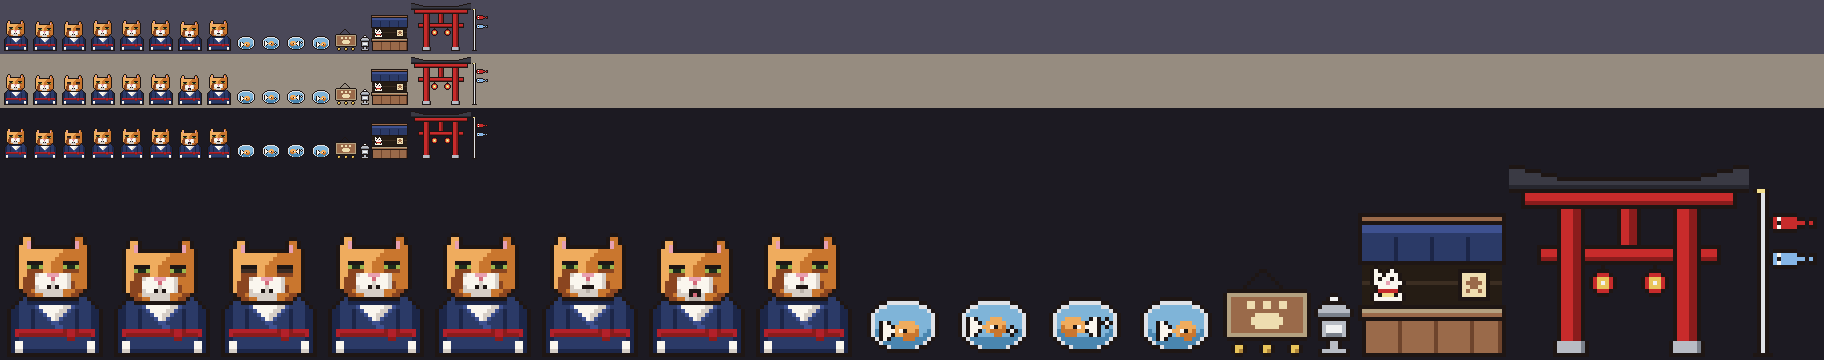
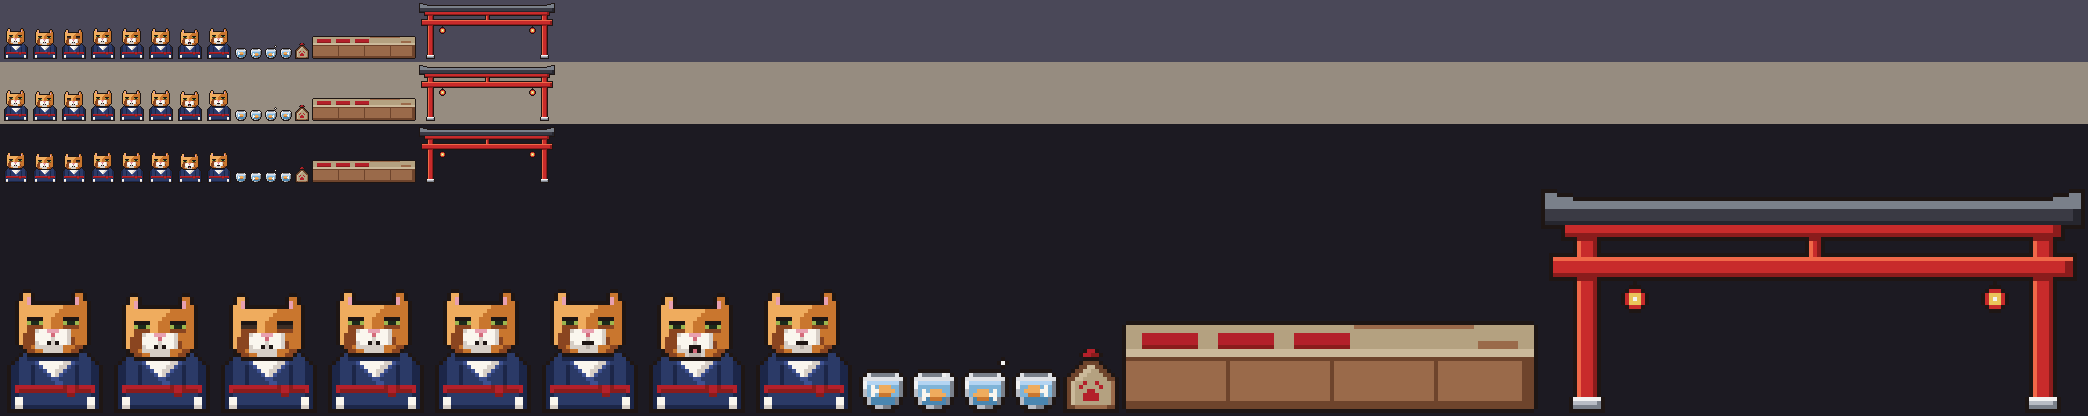
2.20.8: wire the shrine stall colliders in, bump version, regenerate the stall preview

Changed region(s): [[0.0, 0.4583, 1.0, 1.0], [0.0, 0.0, 0.2812, 0.4583]]

diff --git a/PlutoTheCat/src/ShrineStall.cs b/PlutoTheCat/src/ShrineStall.cs
@@ -34,6 +34,10 @@ namespace PlutoTheCat
         // items must sort in front of, and the bowl's depth is re-logged beside theirs.
         private static tk2dBaseSprite _counterSprite;
         private static tk2dBaseSprite _kinsukeSprite;
+        // The solid props from the current placement, kept so pluto_stall bodies can log their colliders.
+        private static GameObject _toriiProp;
+        private static GameObject _counterProp;
+        private static GameObject _kinsukeProp;
         private static readonly Dictionary<string, int> SpriteIdCache = new Dictionary<string, int>();
         private static System.Action _foyerHandler;
 
@@ -226,6 +230,7 @@ namespace PlutoTheCat
         ///   pluto_stall &lt;x&gt; &lt;y&gt;   - move it to explicit coordinates
         ///   pluto_stall save       - write the current position back to the config file
         ///   pluto_stall stock      - log what the live shop actually stocked, slot by slot
+        ///   pluto_stall bodies     - log the stall's colliders and the reach to Daifuku and the items
         /// </summary>
         private static void RegisterConsoleCommand()
         {
@@ -242,6 +247,14 @@ namespace PlutoTheCat
                     GameObject live = FindLiveShop();
                     if (live == null) Plugin.Log("shrine stall: stock - no live shop in the scene");
                     else LogStock(live, "on request");
+                    return;
+                }
+
+                if (args.Length == 1 && string.Equals(args[0], "bodies", StringComparison.OrdinalIgnoreCase))
+                {
+                    // Run it standing at the counter front after character select: reach is measured from
+                    // the player too, and the shop items only exist once DoSetup has run.
+                    ShrineStallCollision.LogBodies(FindLiveShop(), _counterProp, _toriiProp, _kinsukeProp);
                     return;
                 }
 
@@ -275,7 +288,7 @@ namespace PlutoTheCat
                 }
                 else
                 {
-                    Plugin.Log("shrine stall: usage - pluto_stall (report) | pluto_stall here | pluto_stall <x> <y> | pluto_stall save | pluto_stall stock");
+                    Plugin.Log("shrine stall: usage - pluto_stall (report) | pluto_stall here | pluto_stall <x> <y> | pluto_stall save | pluto_stall stock | pluto_stall bodies");
                     return;
                 }
 
@@ -482,20 +495,35 @@ namespace PlutoTheCat
         {
             DestroyProps();
             // Back to front, as in the approved mockup (the draw order itself comes from z, see Depth above).
-            PlaceProp(new[] { "torii.png" }, PlutoConfig.StallPosition + ToriiOffset, "pluto_shrine_stall_torii", ToriiHeightOffGround);
-            _counterSprite = SpriteOf(PlaceProp(new[] { "stall.png" }, PlutoConfig.StallPosition + StallOffset, "pluto_shrine_stall_stall", StallHeightOffGround));
-            _kinsukeSprite = SpriteOf(PlaceProp(
+            _toriiProp = PlaceProp(new[] { "torii.png" }, PlutoConfig.StallPosition + ToriiOffset, "pluto_shrine_stall_torii", ToriiHeightOffGround);
+            _counterProp = PlaceProp(new[] { "stall.png" }, PlutoConfig.StallPosition + StallOffset, "pluto_shrine_stall_stall", StallHeightOffGround);
+            _counterSprite = SpriteOf(_counterProp);
+            _kinsukeProp = PlaceProp(
                 new[] { "kinsuke_idle_001.png", "kinsuke_idle_002.png", "kinsuke_idle_003.png", "kinsuke_idle_004.png" },
-                PlutoConfig.StallPosition + KinsukeOffset, "pluto_shrine_stall_kinsuke", KinsukeHeightOffGround));
+                PlutoConfig.StallPosition + KinsukeOffset, "pluto_shrine_stall_kinsuke", KinsukeHeightOffGround);
+            _kinsukeSprite = SpriteOf(_kinsukeProp);
+
+            // P3 (redesign): the counter and the torii post bases are solid, and a player-only blocker closes
+            // the band behind the counter. The bowl sits on the counter top, inside the counter's body.
+            if (_toriiProp != null) ShrineStallCollision.AttachToriiBody(_toriiProp);
+            if (_counterProp != null)
+            {
+                ShrineStallCollision.AttachCounterBody(_counterProp);
+                ShrineStallCollision.AttachBackBlocker(_counterProp);
+            }
 
             // 2.20.4 diagnostic (tester's ask): logs the live shop's whole hierarchy on every placement, so
             // "the shopkeeper is missing" or an unexplained sprite is hard data on the next run instead of
             // another round of screenshots and guessing.
             ReconcileLiveShopPosition();
+            // Registered rigidbodies do not follow a raw transform move (archaeology 3.2), and every move
+            // (pluto_stall, reconcile, foyer placement) ends up here, so Daifuku's collider is refreshed once.
+            ShrineStallCollision.ReinitializeShopBodies(FindLiveShop());
             // After the clone is where the config says: a move or reconcile shifts its children in y
             // without touching their z, and the shop items (once DoSetup has stocked them) need their lift.
             RefreshLiveShopDepth(FindLiveShop(), "placement");
             LogShopDiagnostics();
+            ShrineStallCollision.LogBodies(FindLiveShop(), _counterProp, _toriiProp, _kinsukeProp);
             AttachStockProbe();
         }
 
@@ -507,6 +535,9 @@ namespace PlutoTheCat
             Props.Clear();
             _counterSprite = null;
             _kinsukeSprite = null;
+            _toriiProp = null;
+            _counterProp = null;
+            _kinsukeProp = null;
         }
 
         private static tk2dBaseSprite SpriteOf(GameObject prop)

diff --git a/tools/tests/test_shrine_stall_collision.py b/tools/tests/test_shrine_stall_collision.py
@@ -230,5 +230,36 @@ class ShrineStallCollisionSourceTests(unittest.TestCase):
             self.assertTrue(counter[0][0] <= x - 8 and x + 8 <= counter[0][1], 'item slot off the counter')
 
 
+class ShrineStallCollisionWiringTests(unittest.TestCase):
+    """The collision entry points do nothing unless ShrineStall.cs calls them on the placed props."""
+
+    def stall(self):
+        return (COLLISION.parent / 'ShrineStall.cs').read_text(encoding='utf-8')
+
+    def place_backdrop(self):
+        m = re.search(r'private static void PlaceBackdropProps\(\)(.*?)\n        \}\n', self.stall(), re.S)
+        self.assertIsNotNone(m, 'ShrineStall.cs missing PlaceBackdropProps()')
+        return m.group(1)
+
+    def test_bodies_attached_to_placed_props(self):
+        body = self.place_backdrop()
+        self.assertRegex(body, r'AttachToriiBody\(_toriiProp\)', 'the torii prop must get its post bodies')
+        self.assertRegex(body, r'AttachCounterBody\(_counterProp\)', 'the counter prop must get its body')
+        self.assertRegex(body, r'AttachBackBlocker\(_counterProp\)', 'the band behind the counter must be closed')
+        self.assertLess(body.index('_counterProp = PlaceProp'), body.index('AttachCounterBody'),
+                        'bodies must be attached after the counter is placed')
+
+    def test_bodies_reinitialized_after_every_move(self):
+        body = self.place_backdrop()
+        self.assertIn('ShrineStallCollision.ReinitializeShopBodies(FindLiveShop())', body)
+        self.assertLess(body.index('ReconcileLiveShopPosition();'), body.index('ReinitializeShopBodies'),
+                        'Reinitialize must run after the live shop has been moved into place')
+
+    def test_bodies_logged_and_command(self):
+        stall = self.stall()
+        self.assertIn('ShrineStallCollision.LogBodies(FindLiveShop(), _counterProp, _toriiProp, _kinsukeProp)', self.place_backdrop())
+        self.assertRegex(stall, r'string\.Equals\(args\[0\], "bodies"', 'pluto_stall bodies must exist')
+
+
 if __name__ == '__main__':
     unittest.main()

diff --git a/PlutoTheCat/src/Plugin.cs b/PlutoTheCat/src/Plugin.cs
@@ -17,7 +17,7 @@ namespace PlutoTheCat
     {
         public const string GUID = "bogdan.etg.plutothecat";
         public const string NAME = "Pluto The Cat";
-        public const string VERSION = "2.20.7";
+        public const string VERSION = "2.20.8";
 
         // Embedded-resource roots (RootNamespace + folder path, '/' separated).
         public const string SPRITE_ROOT = "PlutoTheCat/Resources/SpriteRoot";

diff --git a/thunderstore/CHANGELOG.md b/thunderstore/CHANGELOG.md
@@ -1,5 +1,13 @@
 # Changelog
 
+## 2.20.8 (test build, not released)
+The Shrine Stall redesign, drawn to the mockups the user approved on 2026-09-18.
+- **Nothing to buy (P1):** the three items now sit on the counter top. Two of them used to hang past its right end, and the first sat over Daifuku. The game normally forces shop items to draw behind the counter; after stocking, their depth is reset so they draw in front of it. The item spots sit 2 px higher, so the crimson mats show under the plaques.
+- **Flat, overlapping stall (P2):** new art in the game's 3/4 view. There is a wider counter (6.5 tiles) with a visible top face, and a taller torii whose two posts both stand clear of the counter. Daifuku stands behind the counter with his paws on it. Kinsuke's bowl is smaller and sits 1.3 tiles from him instead of covering him. Locked items show as an ema plaque instead of a blueprint. The Japanese decorations (noren, maneki-neko, stone lantern, koi banners) are dropped.
+- **No collision (P3):** the counter's footprint and the torii post bases are solid. A player-only wall stops you walking round a post into the space behind the counter. The bowl sits inside the counter's footprint. Every move refreshes the colliders.
+- **The stall's default position is 61.063, 18.25, the spot the user chose in game.** The two old defaults (19.7, 22.1 and 10.5, 22.1) move to it automatically. A position you chose yourself is never changed.
+- `pluto_stall bodies` logs every collider and the reach from the counter front, and from the player, to Daifuku's talk point and each item. `pluto_here` now works as another name for `pluto_where`. The stock report now says outright that empty slots are expected before character select.
+
 ## 2.20.7 (test build, not released)
 - **The Shrine Stall stocks its items again.** Its loot table was created bare, which leaves the table's list of included sub-tables null. When a live shop set itself up in the Breach, compiling that table threw a NullReferenceException and no items were ever stocked. This stayed hidden until 2.20.6 because until then no live shop existed. The table is now created with Alexandria's `LootUtility.CreateLootTable()`, which initialises both lists. (Confirmed from 11 Steam-machine logs: the exception appeared in every run with a live shop and in no other run.)
 - `pluto_stall stock` logs the loot table and what each item slot holds. A probe also logs the stock about 1.5 s after character select.
